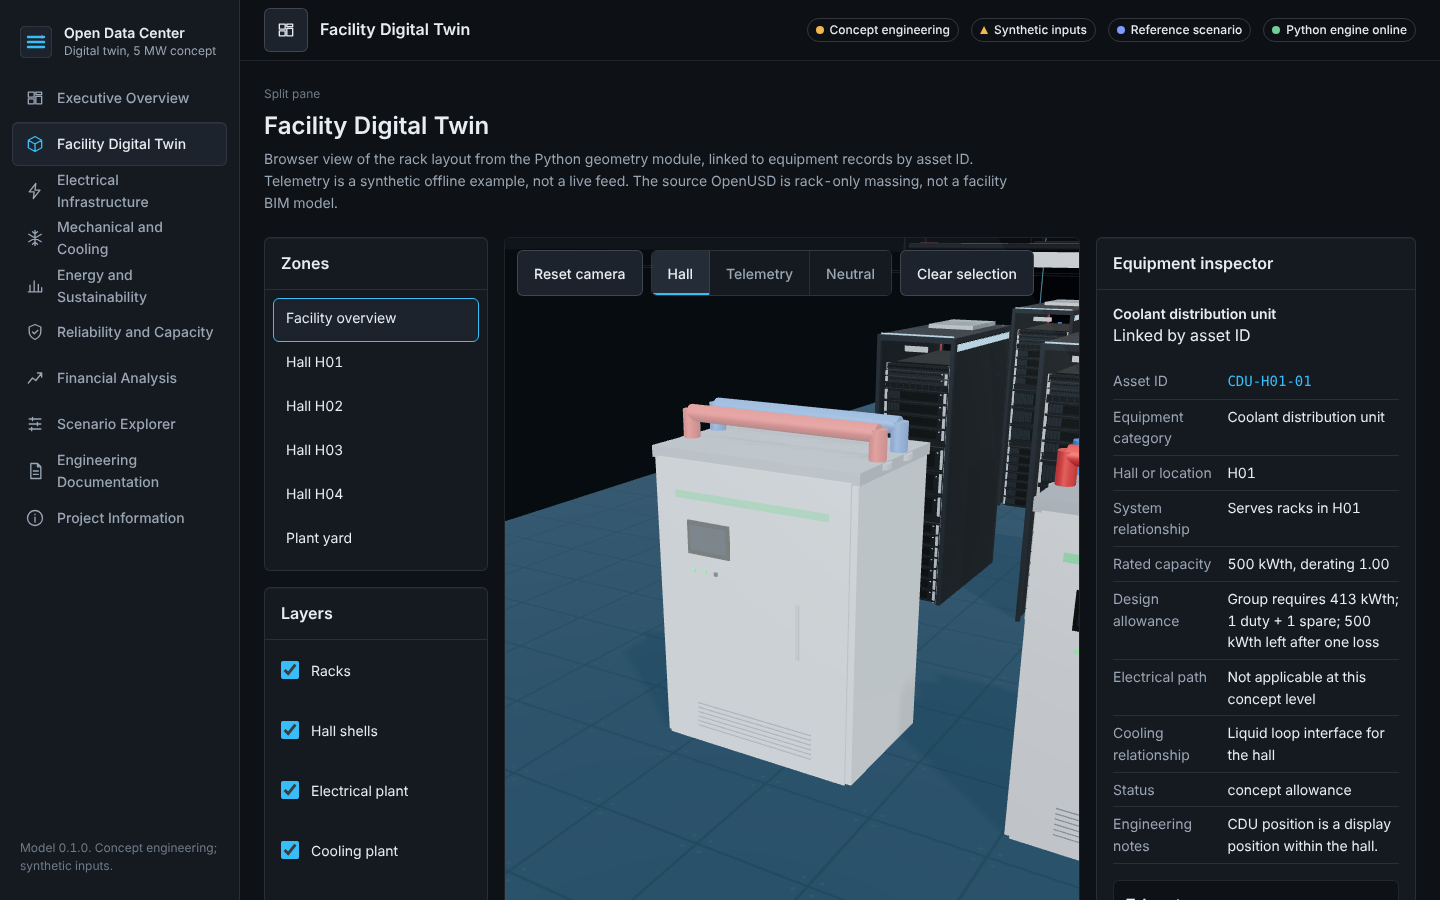
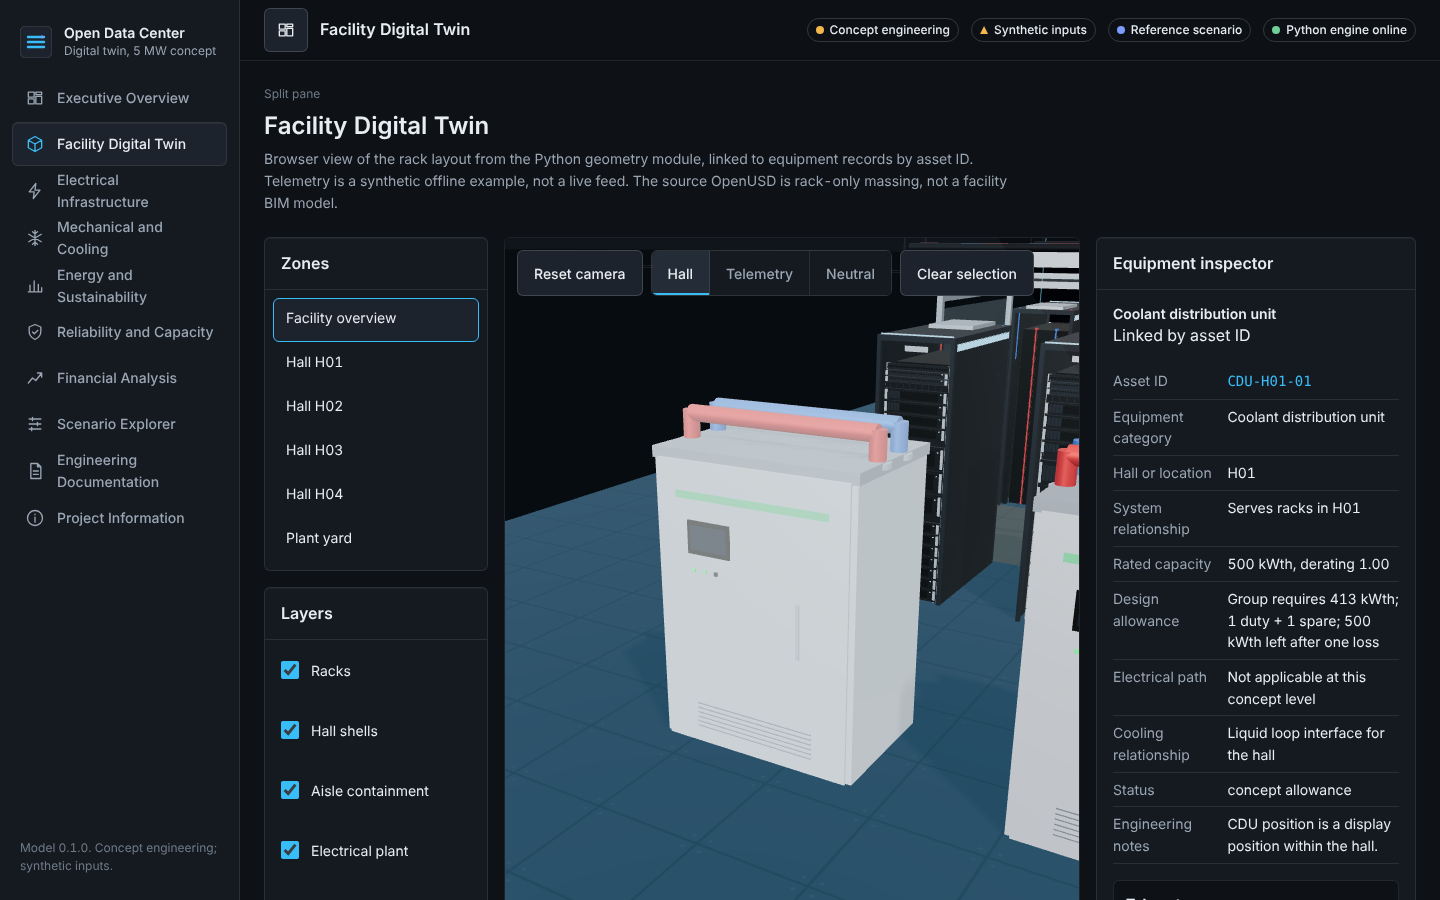
Optimize 3D: draw on demand, merge layers, load three.js lazily
Idle frames 12 to 0 in 3 s, overview draw calls 125 to 77, first page
JS 196.7 kB to 26.0 kB gzip. Trays are merged per hall and shown with
the detailed racks, aisle layers are merged by material. Removes the
deprecated PCFSoftShadowMap. Measurements are in the architecture doc.

Claude-Session: https://claude.ai/code/session_01CmSztmL4tLks3xrZEuWPBg

Changed region(s): [[0.625, 0.28, 0.75, 0.6222], [0.2188, 0.8711, 0.3125, 0.9022], [0.2188, 0.9333, 0.2812, 0.9644]]

diff --git a/web/src/twin3d.ts b/web/src/twin3d.ts
@@ -8,8 +8,9 @@ import { buildTray } from "./models/tray";
 import { buildPlant } from "./models/plant";
 import { availableModels, loadExternal } from "./models/external";
 import { RACK_SIZE } from "./models/rack";
+import { mergeGeometries } from "three/examples/jsm/utils/BufferGeometryUtils.js";
 
-interface RackSet { ids: string[]; center: THREE.Vector3; simple: THREE.InstancedMesh; body: THREE.InstancedMesh; accent: THREE.InstancedMesh }
+interface RackSet { ids: string[]; center: THREE.Vector3; simple: THREE.InstancedMesh; body: THREE.InstancedMesh; accent: THREE.InstancedMesh; hallId: string; trays?: THREE.Mesh }
 const DETAIL_DISTANCE = 70;
 
 export type ColorMode = "hall" | "telemetry" | "neutral";
@@ -60,7 +61,11 @@ export class TwinScene {
   private trays = new THREE.Group();
   private aisleGroup = new THREE.Group();
   private casters: THREE.Object3D[] = [];
+  private dirty = true;
   private shadowDirty = true;
+  renderedFrames = 0;
+  // ask for one more frame; the loop draws only when something changed
+  invalidate() { this.dirty = true; }
   private raycaster = new THREE.Raycaster();
   private ray = new THREE.Vector2();
   private frame = 0;
@@ -75,13 +80,14 @@ export class TwinScene {
   constructor(private canvas: HTMLCanvasElement, private twin: Twin) {
     this.renderer = new THREE.WebGLRenderer({ canvas, antialias: true, preserveDrawingBuffer: true });
     this.renderer.setPixelRatio(Math.min(window.devicePixelRatio || 1, 2));
-    this.renderer.shadowMap.enabled = true; this.renderer.shadowMap.autoUpdate = false; this.renderer.shadowMap.type = THREE.PCFSoftShadowMap;
+    this.renderer.shadowMap.enabled = true; this.renderer.shadowMap.autoUpdate = false; this.renderer.shadowMap.type = THREE.PCFShadowMap;
     this.renderer.toneMapping = THREE.ACESFilmicToneMapping; this.renderer.toneMappingExposure = 1.0;
     this.pmrem = new THREE.PMREMGenerator(this.renderer);
     this.scene.environment = this.pmrem.fromScene(new RoomEnvironment(), 0.04).texture; this.scene.environmentIntensity = 0.55;
     this.scene.background = new THREE.Color(0x0a0d11);
     this.camera = new THREE.PerspectiveCamera(42, 1, 0.5, 600);
     this.controls = new OrbitControls(this.camera, canvas);
+    this.controls.addEventListener("change", () => { this.dirty = true; });
     this.controls.enableDamping = true; this.controls.dampingFactor = 0.08;
     this.controls.maxPolarAngle = Math.PI / 2 - 0.03; this.controls.minDistance = 1.2; this.controls.maxDistance = 220;
     // framing
@@ -168,7 +174,7 @@ export class TwinScene {
         im.instanceColor = new THREE.InstancedBufferAttribute(new Float32Array(n * 3).fill(1), 3);
         return im;
       };
-      const set: RackSet = { ids: racks.map((r) => r.asset_id), center: new THREE.Vector3(hall.x + hall.width / 2, 1, hall.y + hall.depth / 2),
+      const set: RackSet = { hallId: hall.id, ids: racks.map((r) => r.asset_id), center: new THREE.Vector3(hall.x + hall.width / 2, 1, hall.y + hall.depth / 2),
         simple: mk(geo.simple, simpleMat), body: mk(geo.body, bodyMat), accent: mk(geo.accent, accentMat) };
       racks.forEach((r, i) => {
         placeRack(m, r);
@@ -187,39 +193,49 @@ export class TwinScene {
     }
   }
 
-  // hot aisles get a glazed roof and end doors, cold aisles a blue floor marker; both come from the Python aisle plan
+  // hot aisles get a glazed roof and end doors, cold aisles a blue floor marker; both come from the Python aisle plan.
+  // Everything is merged by material, so the whole layer costs four draw calls.
   private buildAisles() {
     const frameMat = new THREE.MeshStandardMaterial({ vertexColors: true, roughness: 0.4, metalness: 0.7 });
     const glassMat = new THREE.MeshStandardMaterial({ vertexColors: true, transparent: true, opacity: 0.28, roughness: 0.1, metalness: 0.2, depthWrite: false });
-    const cold = new THREE.MeshBasicMaterial({ color: 0x38bdf8, transparent: true, opacity: 0.16, depthWrite: false, polygonOffset: true, polygonOffsetFactor: -2 });
-    const hot = new THREE.MeshBasicMaterial({ color: 0xf97316, transparent: true, opacity: 0.16, depthWrite: false, polygonOffset: true, polygonOffsetFactor: -2 });
-    const none = () => {};
+    const tintMat = (color: number) => new THREE.MeshBasicMaterial({ color, transparent: true, opacity: 0.16, depthWrite: false, polygonOffset: true, polygonOffsetFactor: -2 });
+    const tints = { cold: [] as THREE.BufferGeometry[], hot: [] as THREE.BufferGeometry[] }, frames: THREE.BufferGeometry[] = [], glass: THREE.BufferGeometry[] = [];
+    const at = (g: THREE.BufferGeometry, x: number, y: number, z: number) => g.clone().translate(x, y, z);
     for (const hall of this.twin.halls) for (const a of hall.aisles ?? []) {
       const cx = a.x + a.width / 2, cz = a.y + a.depth / 2;
-      const tint = new THREE.Mesh(new THREE.PlaneGeometry(a.width, a.depth), a.kind === "hot" ? hot : cold);
-      tint.rotation.x = -Math.PI / 2; tint.position.set(cx, 0.21, cz); tint.raycast = none; this.aisleGroup.add(tint);
+      const plane = new THREE.PlaneGeometry(a.width, a.depth); plane.rotateX(-Math.PI / 2); plane.deleteAttribute("uv");
+      tints[a.kind].push(at(plane, cx, 0.21, cz));
       if (!a.contained) continue;
-      const { frame, glass } = buildContainment(a.width, a.depth, 2.2);
-      const fm = new THREE.Mesh(frame, frameMat), gm = new THREE.Mesh(glass, glassMat);
-      for (const o of [fm, gm]) { o.position.set(cx, 0.2, cz); o.raycast = none; this.aisleGroup.add(o); }
-      fm.castShadow = true; gm.renderOrder = 2;
+      const c = buildContainment(a.width, a.depth, 2.2);
+      frames.push(at(c.frame, cx, 0.2, cz)); glass.push(at(c.glass, cx, 0.2, cz));
     }
+    const add = (gs: THREE.BufferGeometry[], mat: THREE.Material, shadow = false, order = 0) => {
+      if (!gs.length) return;
+      const mesh = new THREE.Mesh(mergeGeometries(gs, false)!, mat);
+      mesh.raycast = () => {}; mesh.castShadow = shadow; mesh.renderOrder = order; this.aisleGroup.add(mesh);
+    };
+    add(tints.cold, tintMat(0x38bdf8)); add(tints.hot, tintMat(0xf97316)); add(frames, frameMat, true); add(glass, glassMat, false, 2);
   }
 
-  // generic overhead cable tray above each rack row, schematic and not part of the data contract
+  // generic overhead cable tray above each rack row, schematic and not part of the data contract.
+  // One merged mesh per hall, shown together with the detailed racks of that hall.
   private buildTrays() {
     const mat = new THREE.MeshStandardMaterial({ vertexColors: true, roughness: 0.5, metalness: 0.6 });
     const topY = 2.75;
     for (const hall of this.twin.halls) {
       const rows = new Map<number, typeof this.twin.racks>();
       for (const r of this.twin.racks) if (r.hall_id === hall.id) { const a = rows.get(r.y) ?? []; a.push(r); rows.set(r.y, a); }
+      const parts: THREE.BufferGeometry[] = [];
       for (const [y, rs] of rows) {
         const x0 = Math.min(...rs.map((r) => r.x)), x1 = Math.max(...rs.map((r) => r.x + r.width));
-        const mesh = new THREE.Mesh(buildTray(x1 - x0, hall.height - topY), mat);
-        mesh.position.set(x0, topY, y + rs[0].depth / 2); mesh.castShadow = true;
-        mesh.raycast = () => {};
-        this.trays.add(mesh);
+        parts.push(buildTray(x1 - x0, hall.height - topY).translate(x0, topY, y + rs[0].depth / 2));
       }
+      if (!parts.length) continue;
+      const mesh = new THREE.Mesh(mergeGeometries(parts, false)!, mat);
+      mesh.castShadow = true; mesh.raycast = () => {};
+      this.trays.add(mesh);
+      const set = this.rackSets.find((x) => x.hallId === hall.id);
+      if (set) set.trays = mesh;
     }
   }
 
@@ -229,14 +245,14 @@ export class TwinScene {
     if (!have.size) return;
     if (have.has("rack")) {
       const rack = await loadExternal("rack", { w: RACK_SIZE.w, d: RACK_SIZE.d, h: RACK_SIZE.h, origin: "floor" });
-      if (rack && !this.disposed) for (const st of this.rackSets) { st.body.geometry = rack; st.accent.count = 0; }
+      if (rack && !this.disposed) { for (const st of this.rackSets) { st.body.geometry = rack; st.accent.count = 0; } this.dirty = true; }
     }
     const names: Record<string, string> = { UPS: "ups", TX: "tx", GEN: "gen", CHL: "chl", CDU: "cdu" };
     for (const [id, mesh] of this.equipMeshes) {
       const e = this.twin.equipment.find((x) => x.asset_id === id)!, p = e.display_position, name = names[e.system];
       if (!name || !have.has(name)) continue;
       const g = await loadExternal(name, { w: p.width, d: p.depth, h: p.height, origin: "center" });
-      if (g && !this.disposed) { mesh.geometry = g; this.shadowDirty = true; const mat = mesh.material as THREE.MeshStandardMaterial; mat.vertexColors = true; mat.needsUpdate = true; }
+      if (g && !this.disposed) { mesh.geometry = g; this.shadowDirty = true; this.dirty = true; const mat = mesh.material as THREE.MeshStandardMaterial; mat.vertexColors = true; mat.needsUpdate = true; }
     }
   }
 
@@ -245,6 +261,7 @@ export class TwinScene {
     for (const s of this.rackSets) {
       const near = this.camera.position.distanceTo(s.center) < DETAIL_DISTANCE;
       s.body.visible = this.racksVisible && near; s.accent.visible = this.racksVisible && near; s.simple.visible = this.racksVisible && !near;
+      if (s.trays) s.trays.visible = this.racksVisible && near;
     }
   }
 
@@ -265,13 +282,13 @@ export class TwinScene {
   private fit() {
     const parent = this.canvas.parentElement!;
     const w = Math.max(2, parent.clientWidth), h = Math.max(2, parent.clientHeight);
-    this.renderer.setSize(w, h, false);
+    this.renderer.setSize(w, h, false); this.dirty = true;
     this.camera.aspect = w / h; this.camera.updateProjectionMatrix();
   }
 
   setLayers(l: Layers) {
     this.hallGroup.visible = l.halls;
-    this.aisleGroup.visible = l.aisles; this.racksVisible = l.racks; this.trays.visible = l.racks; for (const c of this.casters) c.visible = l.racks; this.shadowDirty = true;
+    this.aisleGroup.visible = l.aisles; this.racksVisible = l.racks; this.trays.visible = l.racks; this.dirty = true; for (const c of this.casters) c.visible = l.racks; this.shadowDirty = true;
     this.updateLod();
     this.labelGroup.visible = l.labels;
     this.lines.visible = l.relations;
@@ -324,6 +341,7 @@ export class TwinScene {
   }
 
   private paint() {
+    this.dirty = true;
     const rel = this.related(this.selected);
     const any = this.selected !== null;
     const c = new THREE.Color(), body = new THREE.Color();
@@ -409,6 +427,7 @@ export class TwinScene {
 
   private moveTo(target: THREE.Vector3, position: THREE.Vector3, instant = false) {
     const reduce = window.matchMedia("(prefers-reduced-motion: reduce)").matches;
+    this.dirty = true;
     if (instant || reduce) { this.camera.position.copy(position); this.controls.target.copy(target); this.controls.update(); this.anim = null; return; }
     this.anim = { t0: performance.now(), from: this.camera.position.clone(), to: position, ft: this.controls.target.clone(), tt: target };
   }
@@ -467,10 +486,13 @@ export class TwinScene {
       this.controls.target.lerpVectors(this.anim.ft, this.anim.tt, e);
       if (k >= 1) this.anim = null;
     }
+    if (this.anim) this.dirty = true;
     this.controls.update();
+    if (!this.dirty) return;
+    this.dirty = false;
     this.updateLod();
     if (this.shadowDirty) { this.renderer.shadowMap.needsUpdate = true; this.shadowDirty = false; }
-    this.renderer.render(this.scene, this.camera);
+    this.renderer.render(this.scene, this.camera); this.renderedFrames++;
   };
 
   dispose() {

diff --git a/web/src/modules/twin.ts b/web/src/modules/twin.ts
@@ -1,7 +1,7 @@
 import type { Ctx } from "../main";
 import { activeData } from "../state";
 import type { Equipment, Hall, ModuleView, Rack } from "../types";
-import { TwinScene, type ColorMode, type Layers, type Picked } from "../twin3d";
+import type { ColorMode, Layers, Picked, TwinScene } from "../twin3d";
 import { chip, fixed, group, h } from "../util";
 
 const SYSTEM_NAME: Record<string, string> = { UPS: "Uninterruptible power supply", TX: "Transformer", GEN: "Generator", CHL: "Chiller", CDU: "Coolant distribution unit" };
@@ -130,10 +130,14 @@ export function twinModule(ctx: Ctx): ModuleView {
       h("section", { class: "panel" }, h("header", { class: "panel-head" }, h("h2", {}, "Equipment inspector")), inspector)));
   drawZones(); drawInspector();
 
-  let dispose: (() => void) | undefined;
-  requestAnimationFrame(() => {
+  let gone = false;
+  let dispose: (() => void) | undefined = () => { gone = true; };
+  // three.js loads only when this page opens, so the other pages start faster
+  requestAnimationFrame(async () => {
     try {
-      scene = new TwinScene(canvas, twin);
+      const { TwinScene: Scene } = await import("../twin3d");
+      if (gone) return;
+      scene = new Scene(canvas, twin);
     } catch (e) {
       stage.replaceChildren(h("p", { class: "error", style: "margin:16px" }, `3D view could not start: ${(e as Error).message}. WebGL is required. Use the asset list and inspector instead.`));
       return;
@@ -143,8 +147,9 @@ export function twinModule(ctx: Ctx): ModuleView {
     legend();
     (window as any).__twin = { select: (id: string) => { const r = twin.racks.find((x) => x.asset_id === id); pick(r ? { kind: "rack", id } : { kind: "equipment", id }, true); },
       screenOf: (id: string) => scene!.screenOf(id), selected: () => selected, flyTo: (z: string) => scene!.flyTo(z, true), setMode, layers: (l: Partial<Layers>) => { Object.assign(layers, l); scene!.setLayers(layers); },
-      look: (p: number[], t: number[]) => { scene!.camera.position.set(p[0], p[1], p[2]); scene!.controls.target.set(t[0], t[1], t[2]); scene!.controls.update(); } };
-    dispose = () => { scene?.dispose(); delete (window as any).__twin; };
+      stats: () => ({ frames: scene!.renderedFrames, calls: scene!.renderer.info.render.calls, triangles: scene!.renderer.info.render.triangles }),
+      look: (p: number[], t: number[]) => { scene!.camera.position.set(p[0], p[1], p[2]); scene!.controls.target.set(t[0], t[1], t[2]); scene!.controls.update(); scene!.invalidate(); } };
+    dispose = () => { gone = true; scene?.dispose(); delete (window as any).__twin; };
   });
   return { el, dispose: () => dispose?.() };
 }

diff --git a/docs/architecture/web-application.md b/docs/architecture/web-application.md
@@ -19,6 +19,22 @@ Provenance chips use shape and text, not colour alone. Amber marks synthetic and
 
 3D scene (`web/src/twin3d.ts`): instanced racks, raycast picking, orbit controls, layer toggles, colour modes (hall, telemetry, neutral), zone fly to. Plant positions are schematic display positions; rack positions come from `dcf.geometry`.
 
-Models (`web/src/models/`): `kit.ts` merges boxes and cylinders into one vertex coloured geometry. `rack.ts` builds a 42U rack (4,424 triangles). `plant.ts` builds UPS, transformer, generator, chiller and CDU (852 to 4,564 triangles). Racks beyond 70 m switch to a box stand-in. `tray.ts` builds the overhead cable tray. Shadows come from one directional light and are rendered once, then again only when layers or models change. `external.ts` can replace any model with a local GLB from `web/public/models/` (listed by `GET /api/models`, git ignored). All shipped models are generic.
+Models (`web/src/models/`): `kit.ts` merges boxes and cylinders into one vertex coloured geometry. `rack.ts` builds a 42U rack (4,424 triangles). `plant.ts` builds UPS, transformer, generator, chiller and CDU (852 to 4,564 triangles). Racks beyond 70 m switch to a box stand-in. `tray.ts` builds the overhead cable tray. The 3D loop draws only when something changed (camera, selection, layers, colour mode, resize), so an idle view costs no GPU work. Three.js is loaded by a dynamic import when the Twin page opens. Trays and aisle layers are merged by material. Shadows come from one directional light and are rendered once, then again only when layers or models change. `external.ts` can replace any model with a local GLB from `web/public/models/` (listed by `GET /api/models`, git ignored). All shipped models are generic.
 
 Test hook: `window.__twin` exposes `select`, `screenOf`, `selected`, `flyTo` for browser checks.
+
+## 3D performance (measured)
+
+Headless Chrome with a software renderer, 1440 x 900, reference scenario. Draw calls and triangles are for the last drawn frame.
+
+| Measure | Before | After |
+| --- | --- | --- |
+| Frames drawn in 3 s with no input | 12 | 0 |
+| Overview: draw calls | 125 | 77 |
+| Overview: triangles | 74,036 | 56,276 |
+| Hall oblique view: draw calls | 48 | 35 |
+| Inside a hot aisle: draw calls | 27 | 19 |
+| JS on first page load (gzip) | 196.7 kB | 26.0 kB |
+| Twin page JS, loaded on demand (gzip) | included above | 171.6 kB |
+
+Triangle counts inside a hall stay near 0.25 to 0.5 million because every rack near the camera is drawn in full detail. Frame time on a real GPU was not measured. A distance level of detail for plant was tried and removed, because it saved little and made the overview look plain.
